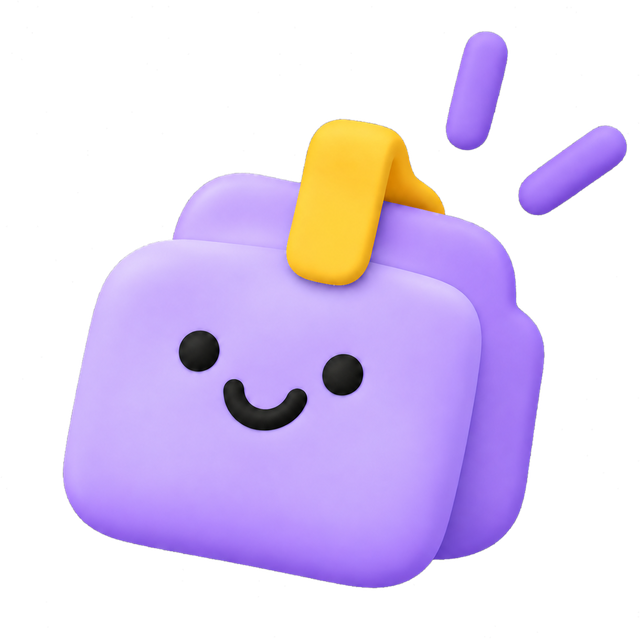
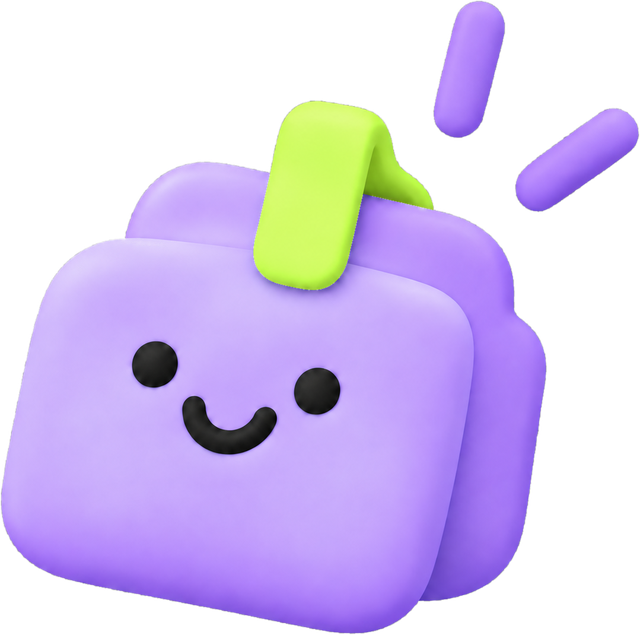
货架：类型标签与备注标签分开、已复制排第一且只留对勾、侧栏左对齐、换新面包人
Claude-Session: https://claude.ai/code/session_011YTEG8e8bbZUvWaRN2PemN

diff --git a/Sources/SnipClip/Shelf/ClipCardView.swift b/Sources/SnipClip/Shelf/ClipCardView.swift
@@ -119,39 +119,52 @@ struct ClipCardView: View {
         .clipShape(RoundedRectangle(cornerRadius: 12))
     }
 
-    /// One row: outlined kind tag on the left, solid lime 已复制 on the right when this is on the clipboard.
+    /// One left-aligned row: [✓ 已复制] [类型] [备注]
     private var captionRow: some View {
-        HStack(spacing: 8) {
-            Text(caption)
-                .font(.system(size: 12.5, weight: .regular)).foregroundStyle(Color.shelfMuted)
-                .padding(.horizontal, 10).padding(.vertical, 4)
-                .overlay(Capsule().stroke(Color(nsColor: tagColor), lineWidth: 1))
-                .lineLimit(1)
-            Spacer(minLength: 0)
+        HStack(spacing: 6) {
             if onClipboard {
-                HStack(spacing: 5) {
-                    ZStack {
-                        Circle().fill(.white).frame(width: 14, height: 14)
-                        Image(systemName: "checkmark").font(.system(size: 8, weight: .heavy)).foregroundStyle(.black)
-                    }
-                    Text("已复制").font(.system(size: 12.5, weight: .semibold)).foregroundStyle(Color(nsColor: Theme.onLime))
+                HStack(spacing: 4) {
+                    Image(systemName: "checkmark").font(.system(size: 10, weight: .bold))
+                    Text("已复制").font(.system(size: 12.5, weight: .semibold))
                 }
-                .padding(.leading, 6).padding(.trailing, 11).padding(.vertical, 4)
+                .foregroundStyle(Color(nsColor: Theme.onLime))
+                .padding(.horizontal, 10).padding(.vertical, 4)
                 .background(Color.lime, in: Capsule())
             }
+            tag(kindLabel, color: Color(nsColor: tagColor))
+            if let note { tag(note, color: Color.shelfMuted.opacity(0.7), ink: Color.shelfMuted) }
+            Spacer(minLength: 0)
         }
         .padding(.horizontal, 16)
         .padding(.top, 12)
         .padding(.bottom, 12)
     }
 
-    private var caption: String {
+    private func tag(_ text: String, color: Color, ink: Color? = nil) -> some View {
+        Text(text)
+            .font(.system(size: 12.5)).foregroundStyle(ink ?? color)
+            .padding(.horizontal, 10).padding(.vertical, 4)
+            .overlay(Capsule().stroke(color, lineWidth: 1))
+            .lineLimit(1)
+    }
+
+    private var kindLabel: String {
         switch item.kind {
-        case .image: return "图片 · \(item.snippet.replacingOccurrences(of: "×", with: " × "))"
-        case .text: return "文本 · \(charCount) 字"
+        case .image: return "图片"
+        case .text: return "文本"
         case .url: return "链接"
-        case .files: return "文件 · \(item.snippet.split(separator: "\n").count) 项"
-        case .video: return "\(item.ext.uppercased()) · \(durationText)"
+        case .files: return "文件"
+        case .video: return item.ext.uppercased()
+        }
+    }
+
+    private var note: String? {
+        switch item.kind {
+        case .image: return item.snippet.replacingOccurrences(of: "×", with: " × ")
+        case .text: return "\(charCount) 字"
+        case .url: return nil
+        case .files: return "\(item.snippet.split(separator: "\n").count) 项"
+        case .video: return durationText
         }
     }
 

diff --git a/Sources/SnipClip/Shelf/ShelfView.swift b/Sources/SnipClip/Shelf/ShelfView.swift
@@ -43,11 +43,11 @@ struct ShelfView: View {
 
     private var sidebar: some View {
         VStack(alignment: .leading, spacing: 0) {
-            VStack(spacing: 8) {
-                if let logo = Theme.logo { Image(nsImage: logo).resizable().scaledToFit().frame(width: 72, height: 72) }
+            // Everything in the sidebar hangs off the same left edge.
+            VStack(alignment: .leading, spacing: 10) {
+                if let logo = Theme.logo { Image(nsImage: logo).resizable().scaledToFit().frame(width: 64, height: 64) }
                 Text("Snip Clip").font(.system(size: 20, weight: .bold)).foregroundStyle(Color.shelfInk)
             }
-            .frame(maxWidth: .infinity)
             .padding(.top, 26)
             .padding(.bottom, 38)
             Text("今日暂存").font(.system(size: 27, weight: .bold)).foregroundStyle(Color.shelfInk)
@@ -55,7 +55,7 @@ struct ShelfView: View {
             Spacer()
             if let m = Theme.mascot {
                 Image(nsImage: m).resizable().scaledToFit().frame(width: 132, height: 132)
-                    .frame(maxWidth: .infinity)
+                    .padding(.leading, -6)
                     .padding(.bottom, 14)
             }
             HStack(spacing: 7) {
